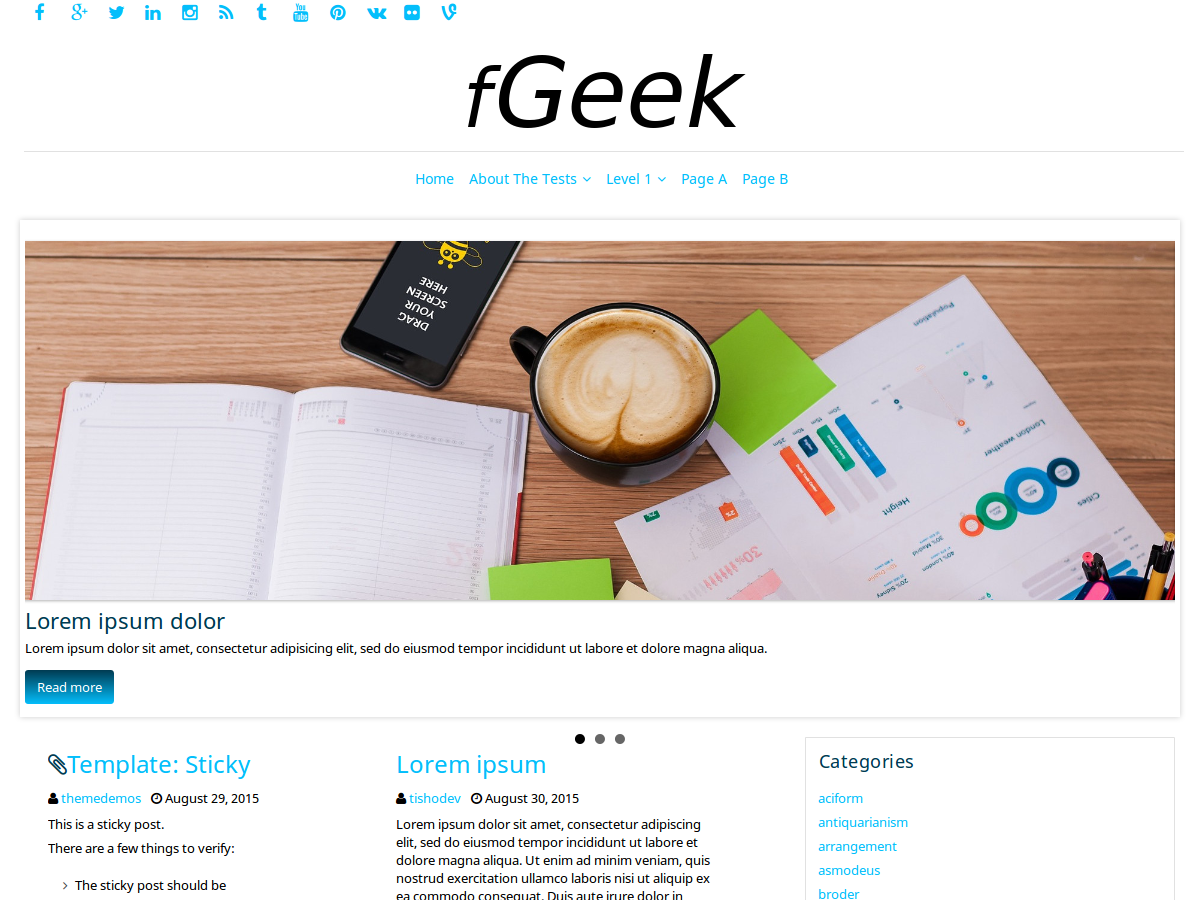
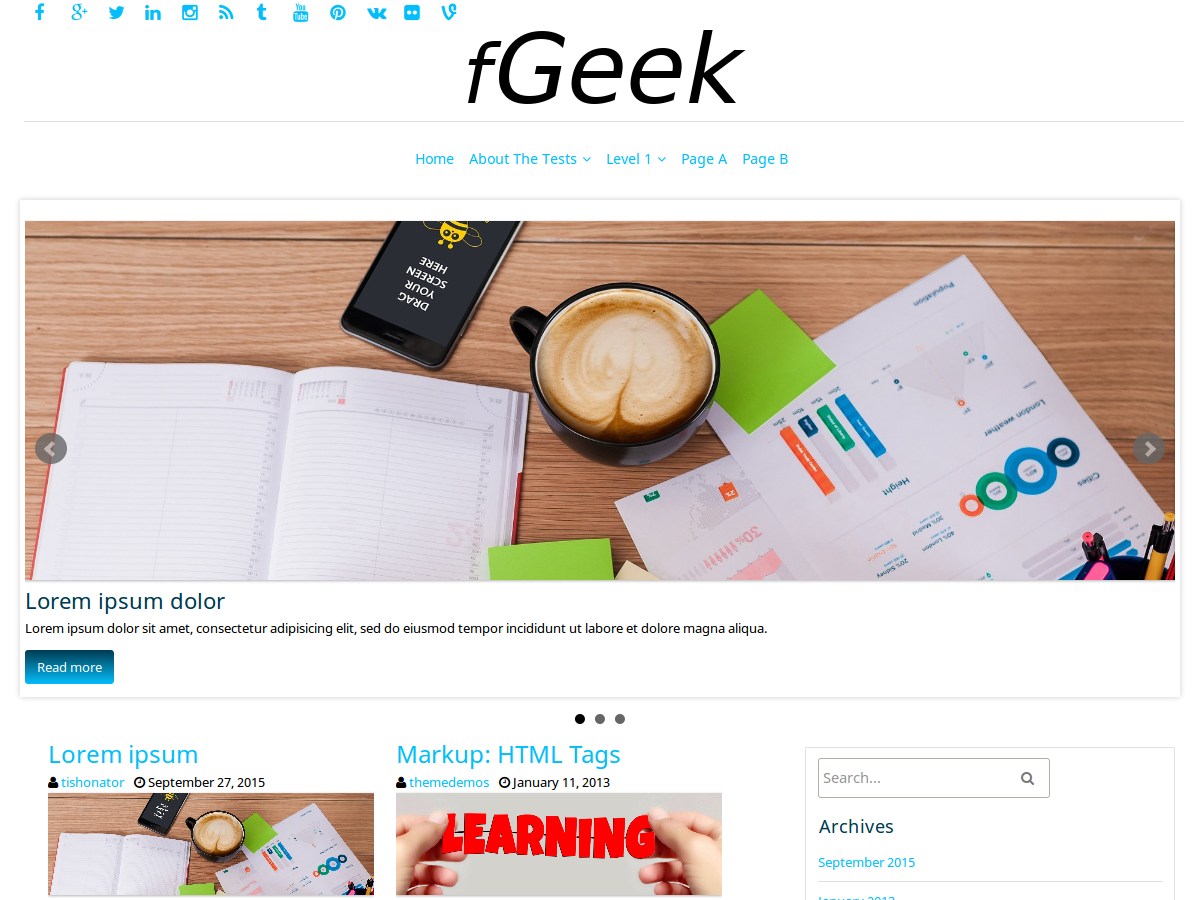
ver 1.0.0

diff --git a/style.css b/style.css
@@ -4,8 +4,9 @@ Description: fGeek is a 100% Responsive WordPress Theme, a perfect choice for a 
 Theme URI: https://tishonator.com/product/fgeek
 Author: tishonator
 Author URI: https://tishonator.com
-Version: 1.0.0
-Tags: blue, white, gray, light, two-columns, right-sidebar, fixed-layout, fluid-layout, responsive-layout, custom-background, custom-colors, custom-header, custom-menu, featured-images, full-width-template, post-formats, sticky-post, theme-options, threaded-comments, translation-ready
+Version: 1.0.5
+Text Domain: fgeek
+Tags: blue, white, gray, light, two-columns, right-sidebar, fluid-layout, responsive-layout, custom-background, custom-colors, custom-header, custom-menu, featured-images, post-formats, sticky-post, threaded-comments, translation-ready
 License: GNU General Public License v2.0
 License URI: http://www.gnu.org/licenses/gpl-2.0.html
 */
@@ -1275,14 +1276,7 @@ img.wp-post-image {
 	margin:-5px 0 10px 13px;
 }
 
-#page-header {
-	background-image:url('images/pageheader.png');
-	background-repeat: repeat;
-	-webkit-box-shadow: inset 0 -1px 1px -1px rgba(0, 0, 0, 0.25);
-	-moz-box-shadow: inset 0 -1px 1px -1px rgba(0, 0, 0, 0.25);
-	box-shadow: 0 -1px 1px -1px rgba(0, 0, 0, 0.25) inset;
-	padding:20px 2% 20px 2%;
-}
+
 
 #page-header,
 #page-header h1 {

diff --git a/functions.php b/functions.php
@@ -103,15 +103,6 @@ function fgeek_setup() {
 endif; // fgeek_setup
 add_action( 'after_setup_theme', 'fgeek_setup' );
 
-function fgeek_post_classes( $classes ) {
-	if ( ! post_password_required() && ! is_attachment() && has_post_thumbnail() ) {
-		$classes[] = 'has-post-thumbnail';
-	}
-
-	return $classes;
-}
-add_filter( 'post_class', 'fgeek_post_classes' );
-
 /**
  * the main function to load scripts in the fGeek theme
  * if you add a new load of script, style, etc. you can use that function
@@ -125,9 +116,9 @@ function fgeek_load_scripts() {
 	wp_enqueue_style( 'fgeek-fonts', fgeek_fonts_url(), array(), null );
 	
 	// Load thread comments reply script
-	if ( is_singular() ) {
-		wp_enqueue_script( 'comment-reply' );
-	}
+	if ( is_singular() && comments_open() && get_option( 'thread_comments' ) ) {
+        wp_enqueue_script( 'comment-reply' );
+    }
 	
 	// Load Utilities JS Script
 	wp_enqueue_script( 'fgeek-js', get_template_directory_uri() . '/js/utilities.js', array( 'jquery' ) );
@@ -325,8 +316,8 @@ function fgeek_display_slider() { ?>
 					
 					$defaultSlideImage = get_template_directory_uri().'/images/slider/' . $i .'.jpg';
 
-					$slideContent = get_theme_mod( 'fpsychology_slide'.$i.'_content', html_entity_decode( $defaultSlideContent ) );
-					$slideImage = get_theme_mod( 'fpsychology_slide'.$i.'_image', $defaultSlideImage );
+					$slideContent = get_theme_mod( 'fgeek_slide'.$i.'_content', html_entity_decode( $defaultSlideContent ) );
+					$slideImage = get_theme_mod( 'fgeek_slide'.$i.'_image', $defaultSlideImage );
 
 				?>
 					<li>
@@ -357,8 +348,6 @@ function fgeek_get_customizer_sectoin_info() {
  * Register theme settings in the customizer
  */
 function fgeek_customize_register( $wp_customize ) {
-
-	$premiumThemeUrl = 'https://tishonator.com/product/tgeek';
 
     /**
 	 * Add Social Sites Section
@@ -617,7 +606,7 @@ function fgeek_customize_register( $wp_customize ) {
 		'fgeek_slide1_content',
 		array(
 		    'default'           => __( '<h2>Lorem ipsum dolor</h2><p>Lorem ipsum dolor sit amet, consectetur adipisicing elit, sed do eiusmod tempor incididunt ut labore et dolore magna aliqua.</p><a class="btn" title="Read more" href="#">Read more</a>', 'fgeek' ),
-		    'sanitize_callback' => 'force_balance_tags',
+		    'sanitize_callback' => 'wp_kses_post',
 		)
 	);
 
@@ -653,7 +642,7 @@ function fgeek_customize_register( $wp_customize ) {
 		'fgeek_slide2_content',
 		array(
 		    'default'           => __( '<h2>Lorem ipsum dolor</h2><p>Lorem ipsum dolor sit amet, consectetur adipisicing elit, sed do eiusmod tempor incididunt ut labore et dolore magna aliqua.</p><a class="btn" title="Read more" href="#">Read more</a>', 'fgeek' ),
-		    'sanitize_callback' => 'force_balance_tags',
+		    'sanitize_callback' => 'wp_kses_post',
 		)
 	);
 
@@ -689,7 +678,7 @@ function fgeek_customize_register( $wp_customize ) {
 		'fgeek_slide3_content',
 		array(
 		    'default'           => __( '<h2>Lorem ipsum dolor</h2><p>Lorem ipsum dolor sit amet, consectetur adipisicing elit, sed do eiusmod tempor incididunt ut labore et dolore magna aliqua.</p><a class="btn" title="Read more" href="#">Read more</a>', 'fgeek' ),
-		    'sanitize_callback' => 'force_balance_tags',
+		    'sanitize_callback' => 'wp_kses_post',
 		)
 	);
 
@@ -716,79 +705,6 @@ function fgeek_customize_register( $wp_customize ) {
 				'label'   	 => __( 'Slide 3 Image', 'fgeek' ),
 				'section' 	 => 'fgeek_slider_section',
 				'settings'   => 'fgeek_slide3_image',
-			) 
-		)
-	);
-
-
-	// Add slide 4 content
-	$wp_customize->add_setting(
-		'fgeek_slide4_content',
-		array(
-		    'default'           => __( '<h2>Lorem ipsum dolor</h2><p>Lorem ipsum dolor sit amet, consectetur adipisicing elit, sed do eiusmod tempor incididunt ut labore et dolore magna aliqua.</p><a class="btn" title="Read more" href="#">Read more</a>', 'fgeek' ),
-		    'sanitize_callback' => 'force_balance_tags',
-		)
-	);
-
-	$wp_customize->add_control( new WP_Customize_Control( $wp_customize, 'fgeek_slide4_content',
-        array(
-            'label'          => __( 'Slide #4 Content', 'fgeek' ),
-            'section'        => 'fgeek_slider_section',
-            'settings'       => 'fgeek_slide4_content',
-            'type'           => 'textarea',
-            )
-        )
-	);
-	
-	// Add slide 4 background image
-	$wp_customize->add_setting( 'fgeek_slide4_image',
-		array(
-			'default' => get_template_directory_uri().'/images/slider/' . '4.jpg',
-    		'sanitize_callback' => 'esc_url_raw'
-		)
-	);
-
-    $wp_customize->add_control( new WP_Customize_Image_Control( $wp_customize, 'fgeek_slide4_image',
-			array(
-				'label'   	 => __( 'Slide 4 Image', 'fgeek' ),
-				'section' 	 => 'fgeek_slider_section',
-				'settings'   => 'fgeek_slide4_image',
-			) 
-		)
-	);
-
-	// Add slide 5 content
-	$wp_customize->add_setting(
-		'fgeek_slide5_content',
-		array(
-		    'default'           => __( '<h2>Lorem ipsum dolor</h2><p>Lorem ipsum dolor sit amet, consectetur adipisicing elit, sed do eiusmod tempor incididunt ut labore et dolore magna aliqua.</p><a class="btn" title="Read more" href="#">Read more</a>', 'fgeek' ),
-		    'sanitize_callback' => 'force_balance_tags',
-		)
-	);
-
-	$wp_customize->add_control( new WP_Customize_Control( $wp_customize, 'fgeek_slide5_content',
-        array(
-            'label'          => __( 'Slide #5 Content', 'fgeek' ),
-            'section'        => 'fgeek_slider_section',
-            'settings'       => 'fgeek_slide5_content',
-            'type'           => 'textarea',
-            )
-        )
-	);
-	
-	// Add slide 5 background image
-	$wp_customize->add_setting( 'fgeek_slide5_image',
-		array(
-			'default' => get_template_directory_uri().'/images/slider/' . '5.jpg',
-    		'sanitize_callback' => 'esc_url_raw'
-		)
-	);
-
-    $wp_customize->add_control( new WP_Customize_Image_Control( $wp_customize, 'fgeek_slide5_image',
-			array(
-				'label'   	 => __( 'Slide 5 Image', 'fgeek' ),
-				'section' 	 => 'fgeek_slider_section',
-				'settings'   => 'fgeek_slide5_image',
 			) 
 		)
 	);

diff --git a/front-page.php b/front-page.php
@@ -1,0 +1,61 @@
+<?php
+/**
+ * Site Front Page
+ *
+ * This is a traditional static HTML site model with a fixed front page and
+ * content placed in Pages, rarely if ever using posts, categories, or tags. 
+ *
+ * @package WordPress
+ * @subpackage fGeek
+ * @author tishonator
+ * @since fGeek 1.0.1
+ * @link https://codex.wordpress.org/Template_Hierarchy
+ *
+ */
+
+ get_header(); ?>
+
+ <div class="clear">
+</div><!-- .clear -->
+
+<div id="main-content-wrapper">
+
+	<?php fgeek_display_slider(); ?>
+
+	<div class="clear">
+	</div>
+
+	<div id="main-content">
+
+	<?php if ( have_posts() ) : 
+
+				// starts the loop
+				while ( have_posts() ) :
+
+					the_post();
+
+					/*
+					 * Include the post format-specific template for the content.
+					 */
+					get_template_part( 'content', get_post_format() );
+
+				endwhile;
+	?>
+				<div class="navigation">
+					<?php echo paginate_links( array( 'prev_next' => '', ) ); ?>
+				</div><!-- #navigation -->
+
+	<?php else :
+
+				// if no content is loaded, show the 'no found' template
+				get_template_part( 'content', 'none' );
+			
+		  endif; ?>
+
+	</div><!-- #main-content -->
+
+	<?php get_sidebar(); ?>
+
+</div><!-- #main-content-wrapper -->
+
+<?php get_footer(); ?>

diff --git a/content.php b/content.php
@@ -16,7 +16,7 @@
 
 	<?php if ( !is_single() ) :
 	
-			echo '<h1 class="entry-title"><a href="' . esc_url( get_permalink() ) . '" rel="bookmark" title="'.get_the_title().'">'.get_the_title().'</a></h1>';
+			echo '<h1 class="entry-title"><a href="' . esc_url( get_permalink() ) . '" rel="bookmark" title="' . esc_attr( get_the_title() ) .'">' . get_the_title() . '</a></h1>';
 	
 		  else:
 
